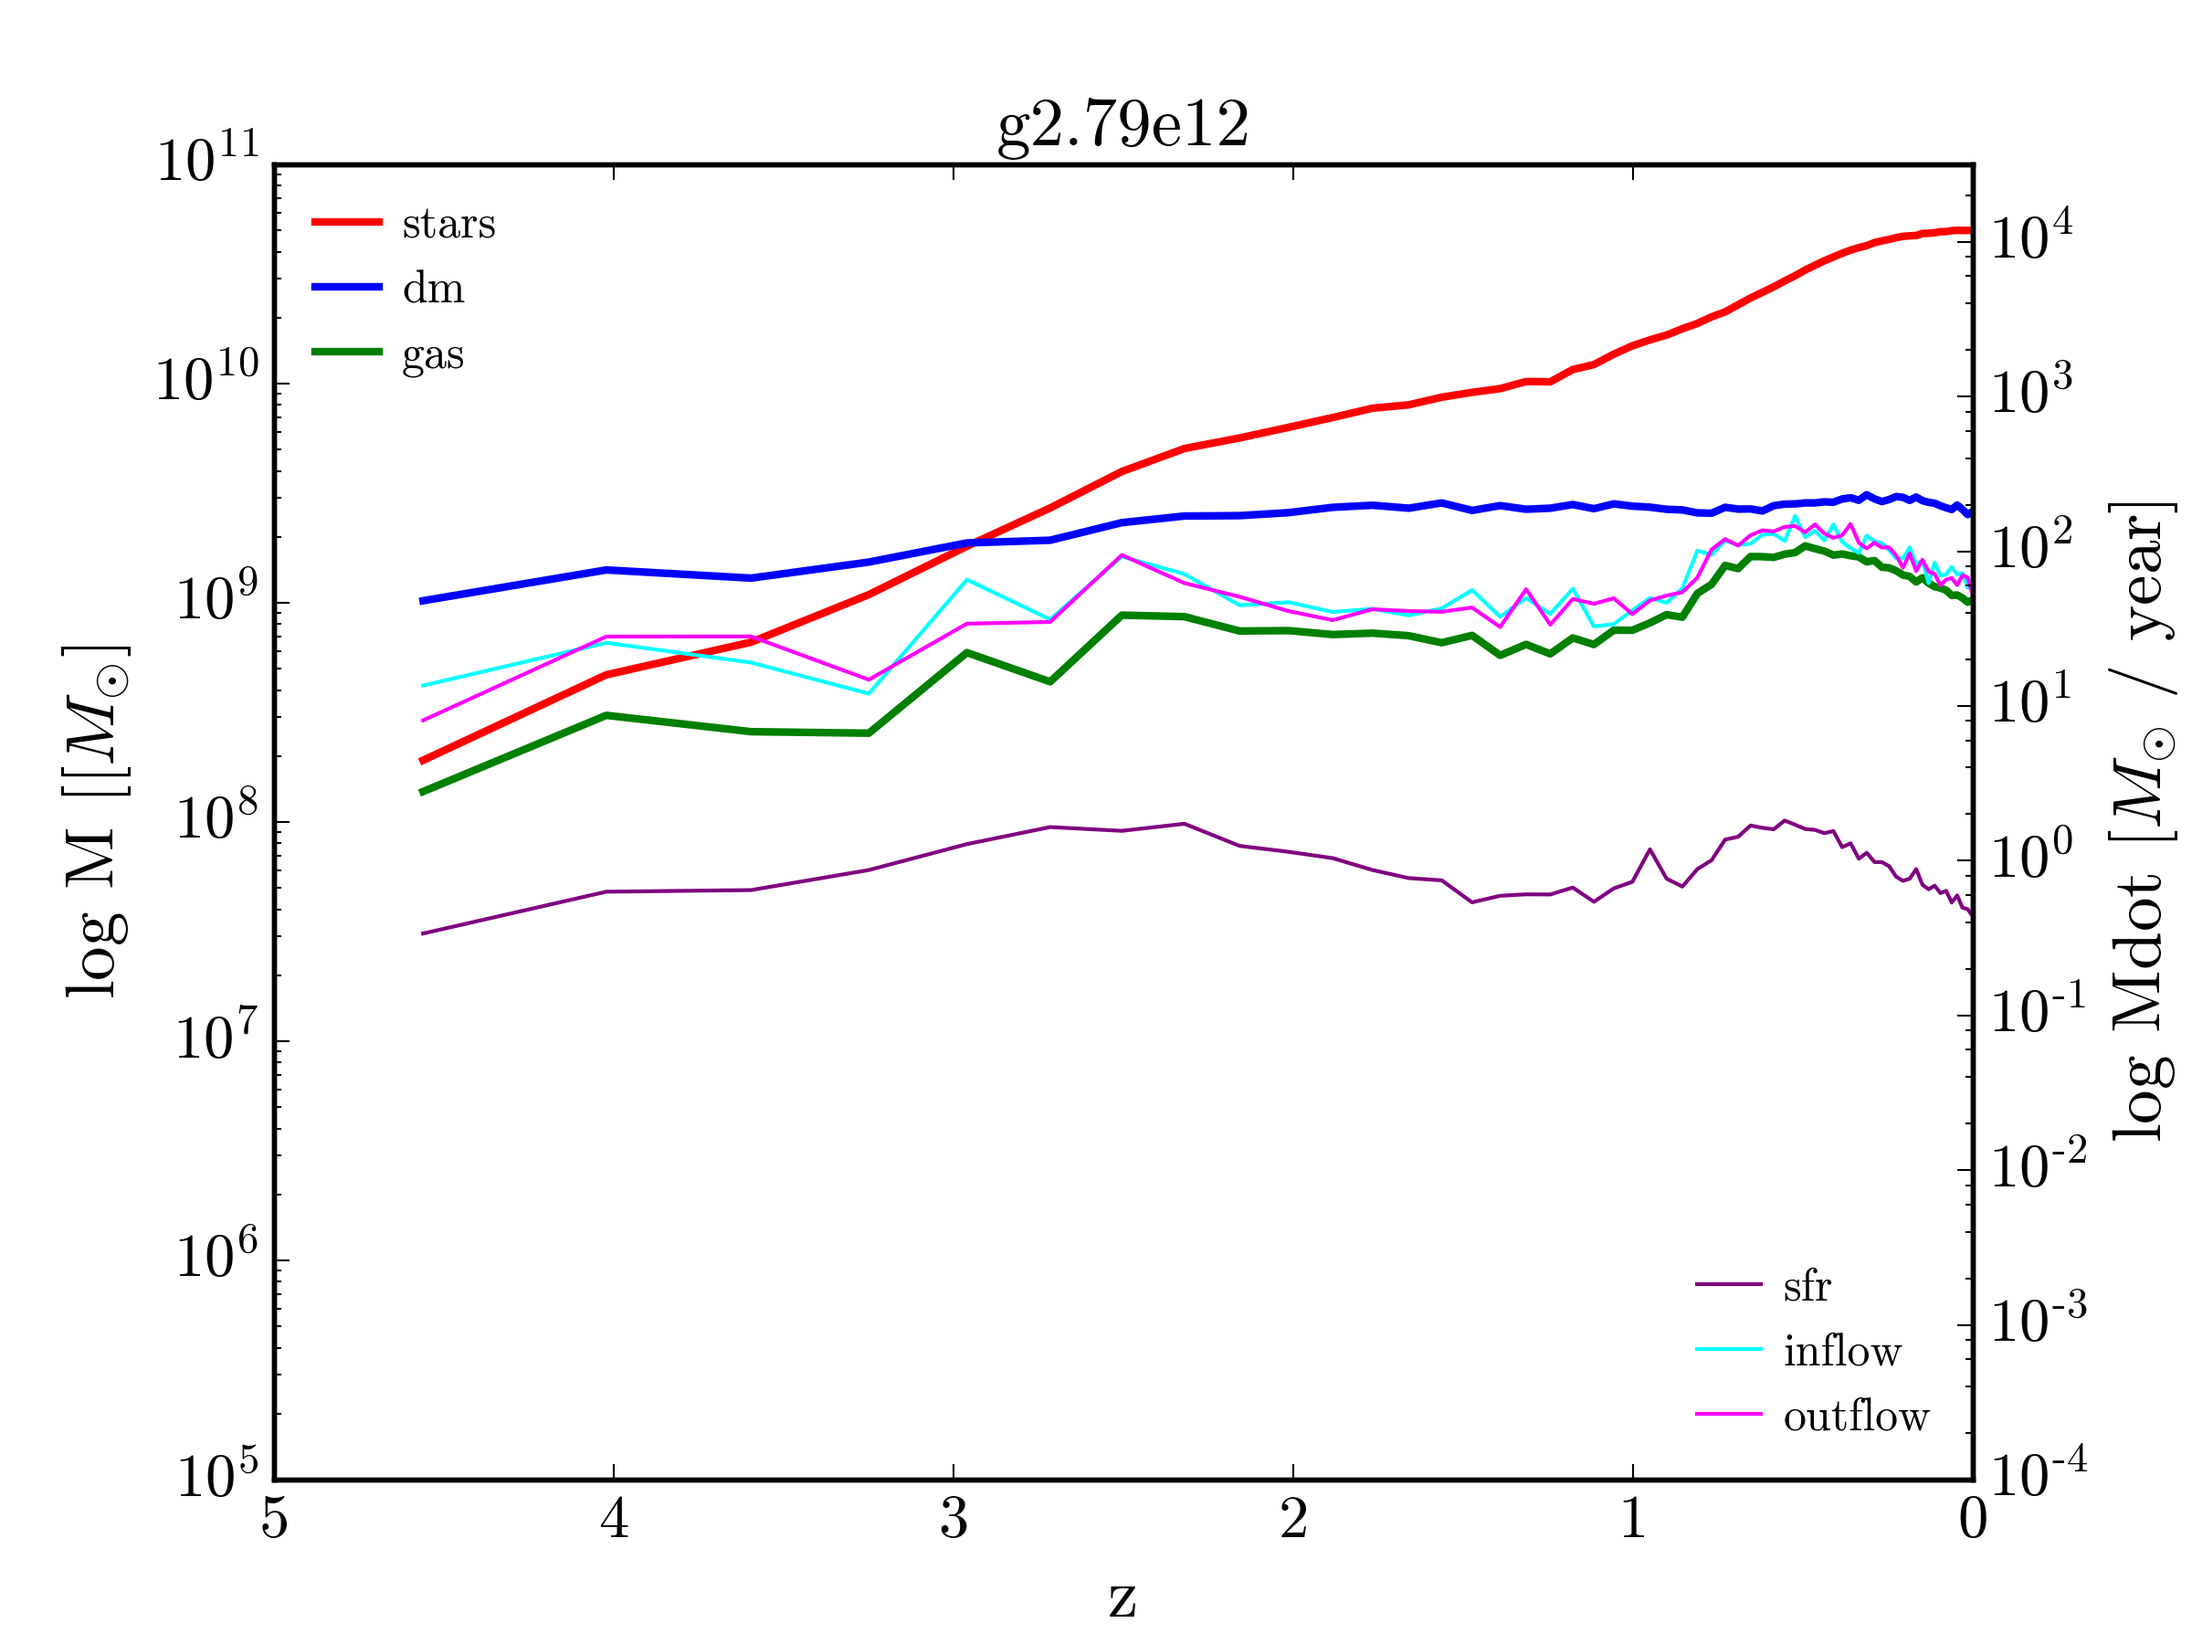
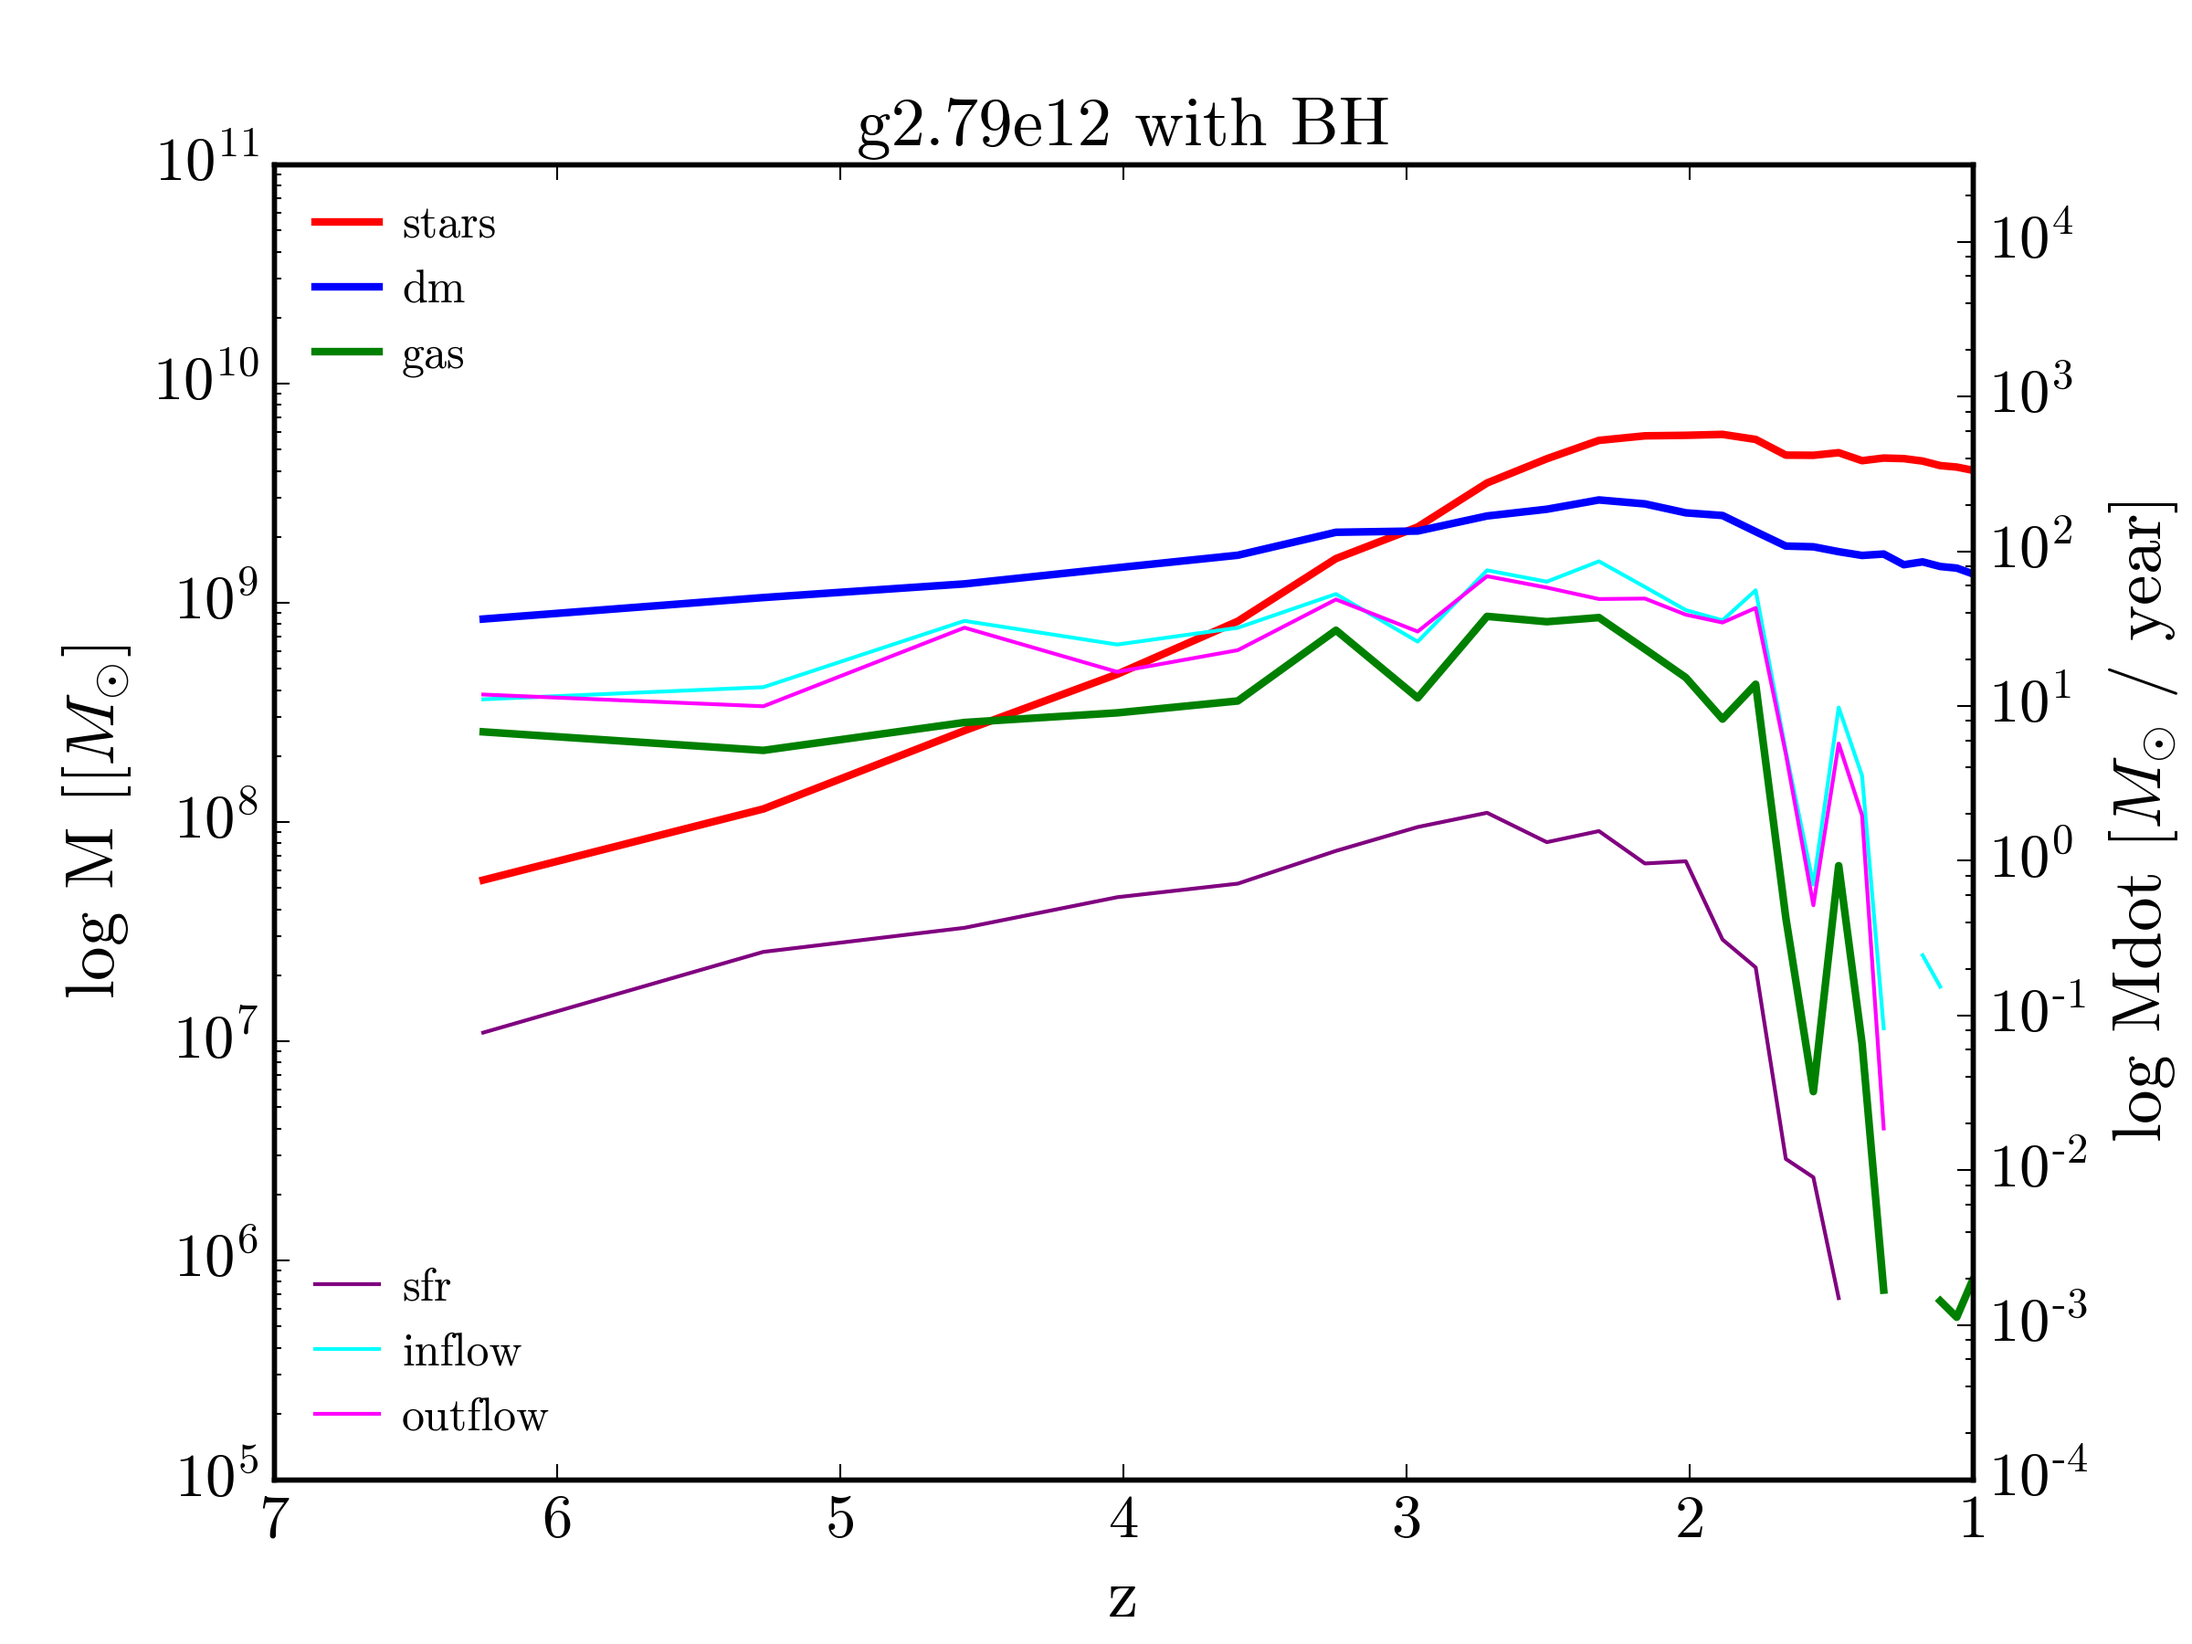
some final aesthetic considerations

diff --git a/6_agncompaction.py b/6_agncompaction.py
@@ -26,6 +26,8 @@ mpl.rcParams['ps.fonttype'] = 42
 mpl.rcParams['axes.unicode_minus']=False
 filename = '/scratch/database/nihao/nihao_classic/'
 #galaxies = ['g1.12e12', 'g2.79e12']
+
+'''
 galaxies = ['g4.90e11', 'g8.26e11', 'g5.38e11', 'g1.37e11']
 #galaxies = ['g4.90e11']
 if len(sys.argv) == 1:
@@ -34,32 +36,39 @@ else:
     gal = sys.argv[1]
 
 plot_bh = raw_input('Plot bh? Y for yes, anything else for no. ')
+'''
+galaxies = ['g2.79e12']
+
 #print('here already')
 #propDict = {'redshiftarray': redshiftarray, 'gasarray': gasarray, 'dm': dmarray, 'star':stararray, 'sfr': sfrarray, 'outflowarray': outflowarray, 'inflowarray': inflowarray, 'surfden1kpc': surfden1kpc, 'ssfr': ssfr, 'smass10': smass10, 'smass': smass}
 
 #with open('pickles/6_' + gal + '.pkl', 'wb') as fp:
 for gal in galaxies:
-    pD = pickle.load(open('pickles/6n_' + gal + '.pkl', 'rb'))
+    bhOnlyDict = pickle.load(open('/home/lem507/2018/pickles/agnQuenchingBHonly.pkl', 'rb'))
+    galDict = pickle.load(open('/home/lem507/2018/pickles/agnQuenchingProperties.pkl', 'rb'))
+    pD = galDict[gal]
+    print(pD.keys())
+    #pD = pickle.load(open('pickles/6n_' + gal + '.pkl', 'rb'))
 
 
     fig, ax1 = plt.subplots()
-    plt.title(gal, fontsize=18)
+    plt.title(gal + " with BH", fontsize=18)
     plt.xlabel("z", fontsize=18)
-    ax1.plot(pD['redshiftarray'], pD['star'], 'r', linewidth=2.0, label="stars")
-    ax1.plot(pD['redshiftarray'], pD['dm'], 'b', linewidth=2.0,  label="dm")
+    ax1.plot(pD['redshiftarray'], pD['stararray'], 'r', linewidth=2.0, label="stars")
+    ax1.plot(pD['redshiftarray'], pD['dmarray'], 'b', linewidth=2.0,  label="dm")
     ax1.plot(pD['redshiftarray'], pD['gasarray'], 'g', linewidth=2.0, label="gas")
-    if plot_bh == 'y':
-        ax1.plot(pD['redshiftarray'], pD['bharray'], 'k', linewidth=2.0, label="bh")
+    #if plot_bh == 'y':
+    #    ax1.plot(pD['redshiftarray'], pD['bharray'], 'k', linewidth=2.0, label="bh")
     ax1.grid(False)
     ax1.set_ylim(10**5, 10**11)
     plt.legend(loc=2, fontsize="medium", frameon=False)
     plt.xlim(6, 1)
     ax1.semilogy()
     ax2 = ax1.twinx()
-    ax2.plot(pD['redshiftarray'], pD['sfr'], color="purple", label="sfr")
+    ax2.plot(pD['redshiftarray'], pD['sfrarray'], color="purple", label="sfr")
     ax2.plot(pD['redshiftarray'], pD['inflowarray'], color="cyan", label="inflow")
     ax2.plot(pD['redshiftarray'], pD['outflowarray'], color="magenta", label="outflow")
-    plt.legend(loc=4, fontsize="medium", frameon=False)
+    plt.legend(loc=3, fontsize="medium", frameon=False)
     ax2.set_ylim(10**(-1.5), 10**4.5)
     ax2.set_ylim(10**(-4), 10**4.5)
     ax2.semilogy()
@@ -82,7 +91,7 @@ for gal in galaxies:
     plt.plot(surfden1kpclog10, ssfrlog10, '-o', color='k')
     plt.xlabel(r'log $\sum_i$ [$M_{\odot}$/kpc$^2$]', fontsize=18)
     plt.ylabel(r'log sSFR [Gyr$^-1$]', fontsize=18)
-    plt.title(gal, fontsize=18)
+    plt.title(gal + " with BH", fontsize=18)
     plt.xlim(7, 11)
     plt.xlim(6, 11)
     plt.ylim(max(ssfrlog10) + 0.5, min(ssfrlog10) - 0.5)
@@ -105,4 +114,5 @@ for gal in galaxies:
     plt.savefig('plots/6_' + gal + 'ssfr.png', dpi=300)
     plt.show()
     plt.close()
+
 

diff --git a/2_mssfrWandWobh.py b/2_mssfrWandWobh.py
@@ -85,8 +85,8 @@ for g in galDictBH.keys():
     print(zBH)
     plt.plot(np.log10([ms, msBH]), np.log10([sfr, sfrBH]), color='k',  alpha=0.2)
     if labeled == False:
-        plt.scatter(np.log10(ms), np.log10(sfr),  color ='r', marker = 'o', alpha=0.5, label = 'Without AGN')
-        plt.scatter(np.log10(msBH), np.log10(sfrBH),  color ='k', alpha=0.6, marker="^", label = 'With AGN')
+        plt.scatter(np.log10(ms), np.log10(sfr),  color ='r', marker = 'o', alpha=0.5, label = 'Without BH')
+        plt.scatter(np.log10(msBH), np.log10(sfrBH),  color ='k', alpha=0.6, marker="^", label = 'With BH')
         labeled = True
     else:
         plt.plot(np.log10(ms), np.log10(sfr),  color ='r', marker = 'o', alpha=0.5,)

diff --git a/1_mssfrLogBefore.py b/1_mssfrLogBefore.py
@@ -106,7 +106,7 @@ plt.plot(x,y, '-', color='k', linewidth=2, alpha = 0.5)
 
 #plt.scatter(mStarArray, sfrArray, color='b', alpha=0.5)
 plt.scatter(logmstar, logsfr, color='r', alpha=0.5, label="NIHAO")
-plt.scatter(np.log10(mstarEll), np.log10(sfrEll), color ='k', alpha=0.5, marker="^", label="NIHAO Ellipticals")
+plt.scatter(np.log10(mstarEll), np.log10(sfrEll), color ='k', alpha=0.5, marker="^", label="NIHAO LARGE w/ BH")
 
 fit_vals = np.asarray([6.0, 13])
 #fit = SFR0*((fit_vals/10**10)**slope)
